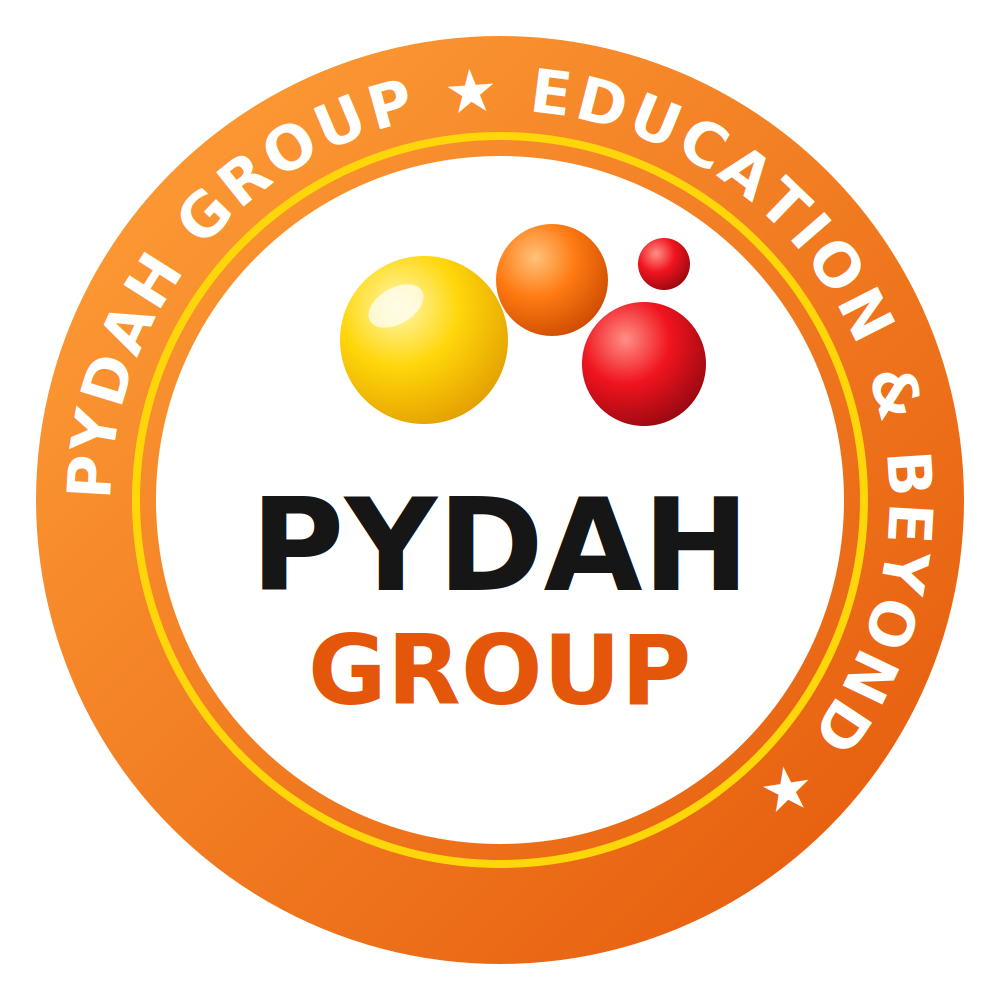
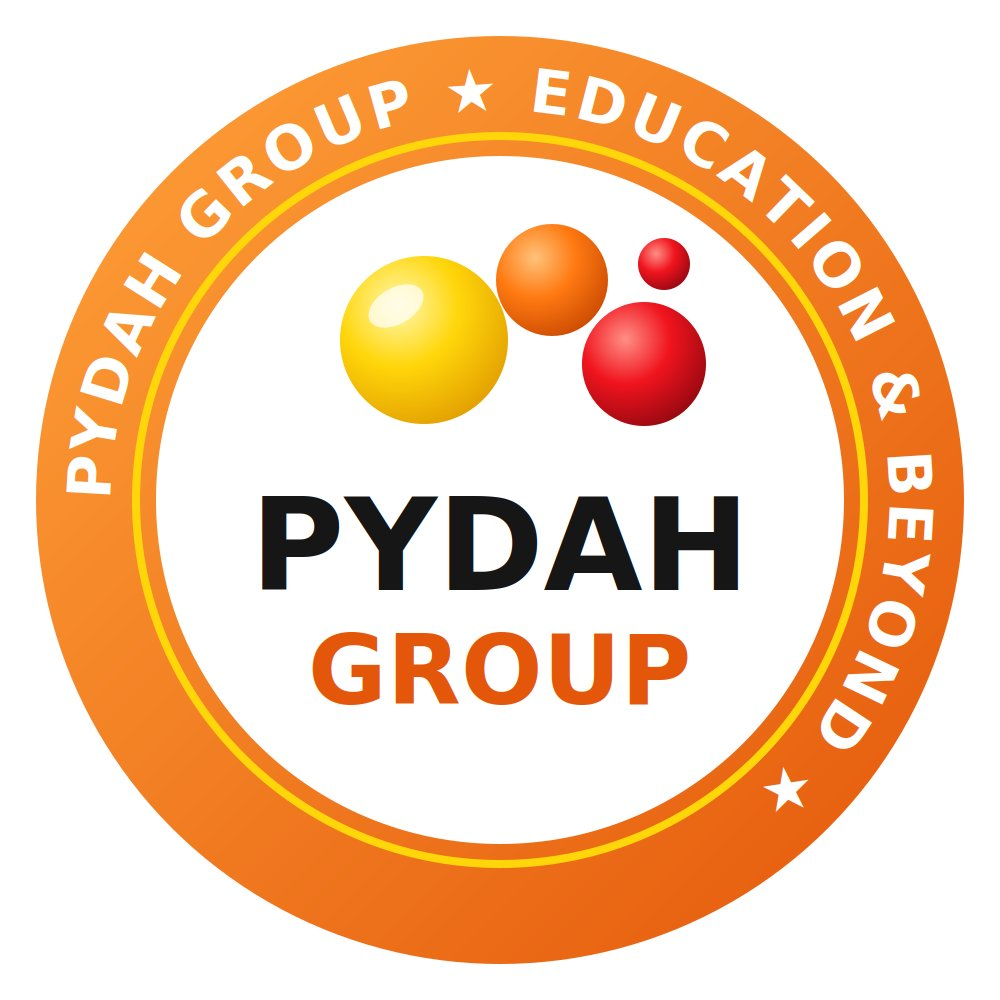
feat: add mobile app authentication, navigation, and configuration setup

diff --git a/src/components/Header.tsx b/src/components/Header.tsx
@@ -37,6 +37,7 @@ export const Header: React.FC<HeaderProps> = ({ title, subtitle, showLogout = tr
             <Menu size={22} color="#1E3A8A" />
           </TouchableOpacity>
         )}
+        <Image source={require("../../assets/pydah-logo.png")} style={styles.brandLogo} resizeMode="contain" />
         <View style={styles.titleContainer}>
           <Text style={styles.title}>{title}</Text>
           {subtitle && <Text style={styles.subtitle}>{subtitle}</Text>}
@@ -97,6 +98,12 @@ const styles = StyleSheet.create({
     backgroundColor: '#FFFFFF',
     borderBottomWidth: 1,
     borderBottomColor: '#F1F5F9',
+  },
+  brandLogo: {
+    width: 34,
+    height: 34,
+    borderRadius: 17,
+    marginRight: 10,
   },
   menuBtn: {
     marginRight: 12,

diff --git a/app/(auth)/login.tsx b/app/(auth)/login.tsx
@@ -123,7 +123,7 @@ export default function LoginScreen() {
         {/* College Logo / Header */}
         <View style={styles.header}>
           <Image
-            source={require('../../assets/icon.png')}
+            source={require('../../assets/pydah-logo.png')}
             style={styles.logo}
             resizeMode="contain"
           />
@@ -259,8 +259,9 @@ const styles = StyleSheet.create({
     marginBottom: 24,
   },
   logo: {
-    width: 76,
-    height: 76,
+    width: 88,
+    height: 88,
+    borderRadius: 44,
     marginBottom: 12,
   },
   appName: {

diff --git a/src/config/env.ts b/src/config/env.ts
@@ -31,7 +31,7 @@ const getAutoDetectedHost = (): string => {
 let rawApiUrl =
   process.env.EXPO_PUBLIC_API_URL ||
   Constants.expoConfig?.extra?.API_URL ||
-  `http://${getAutoDetectedHost()}:5000/api`;
+  (appEnv === 'production' ? 'https://sdms.pydah.edu.in/api' : `http://${getAutoDetectedHost()}:5000/api`);
 
 // On native mobile devices (Android/iOS), "localhost" refers to the phone itself.
 // Automatically replace localhost/127.0.0.1 with the machine's local LAN IP so mobile can reach the backend.
